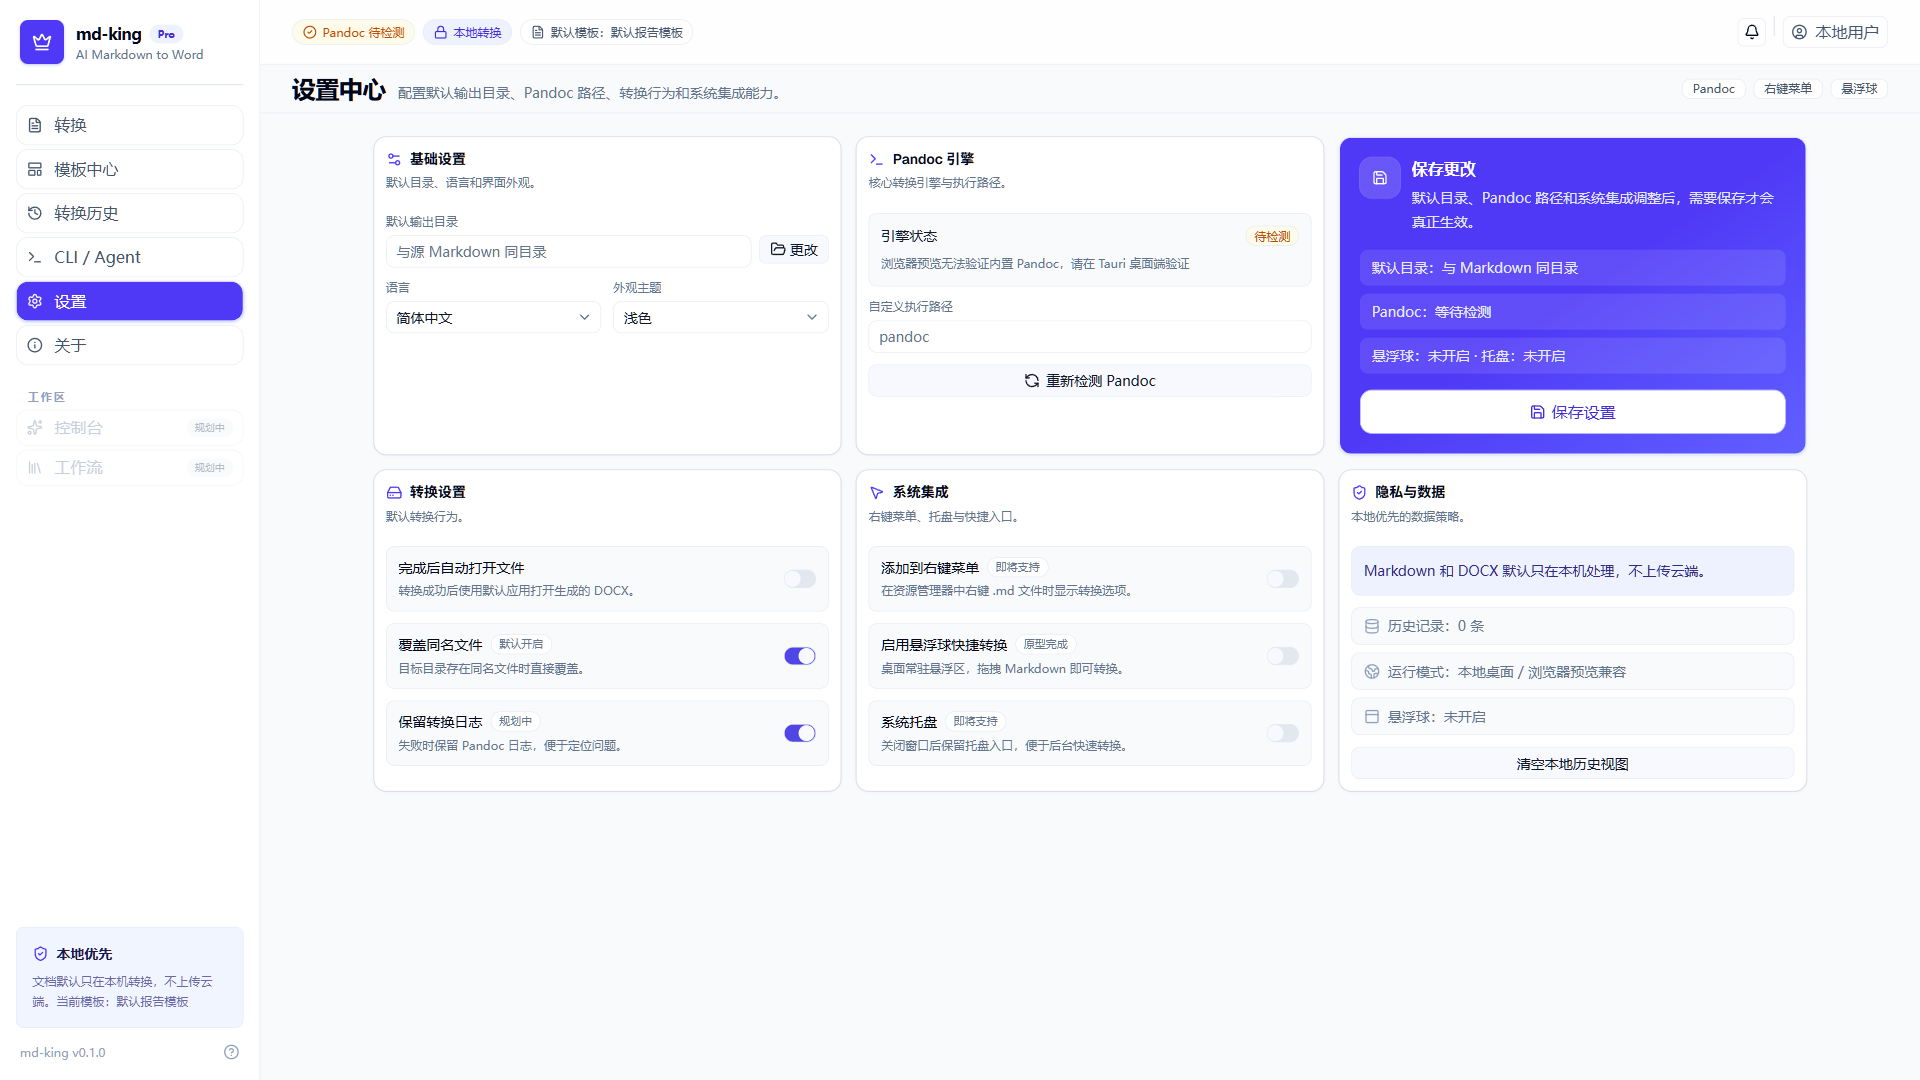
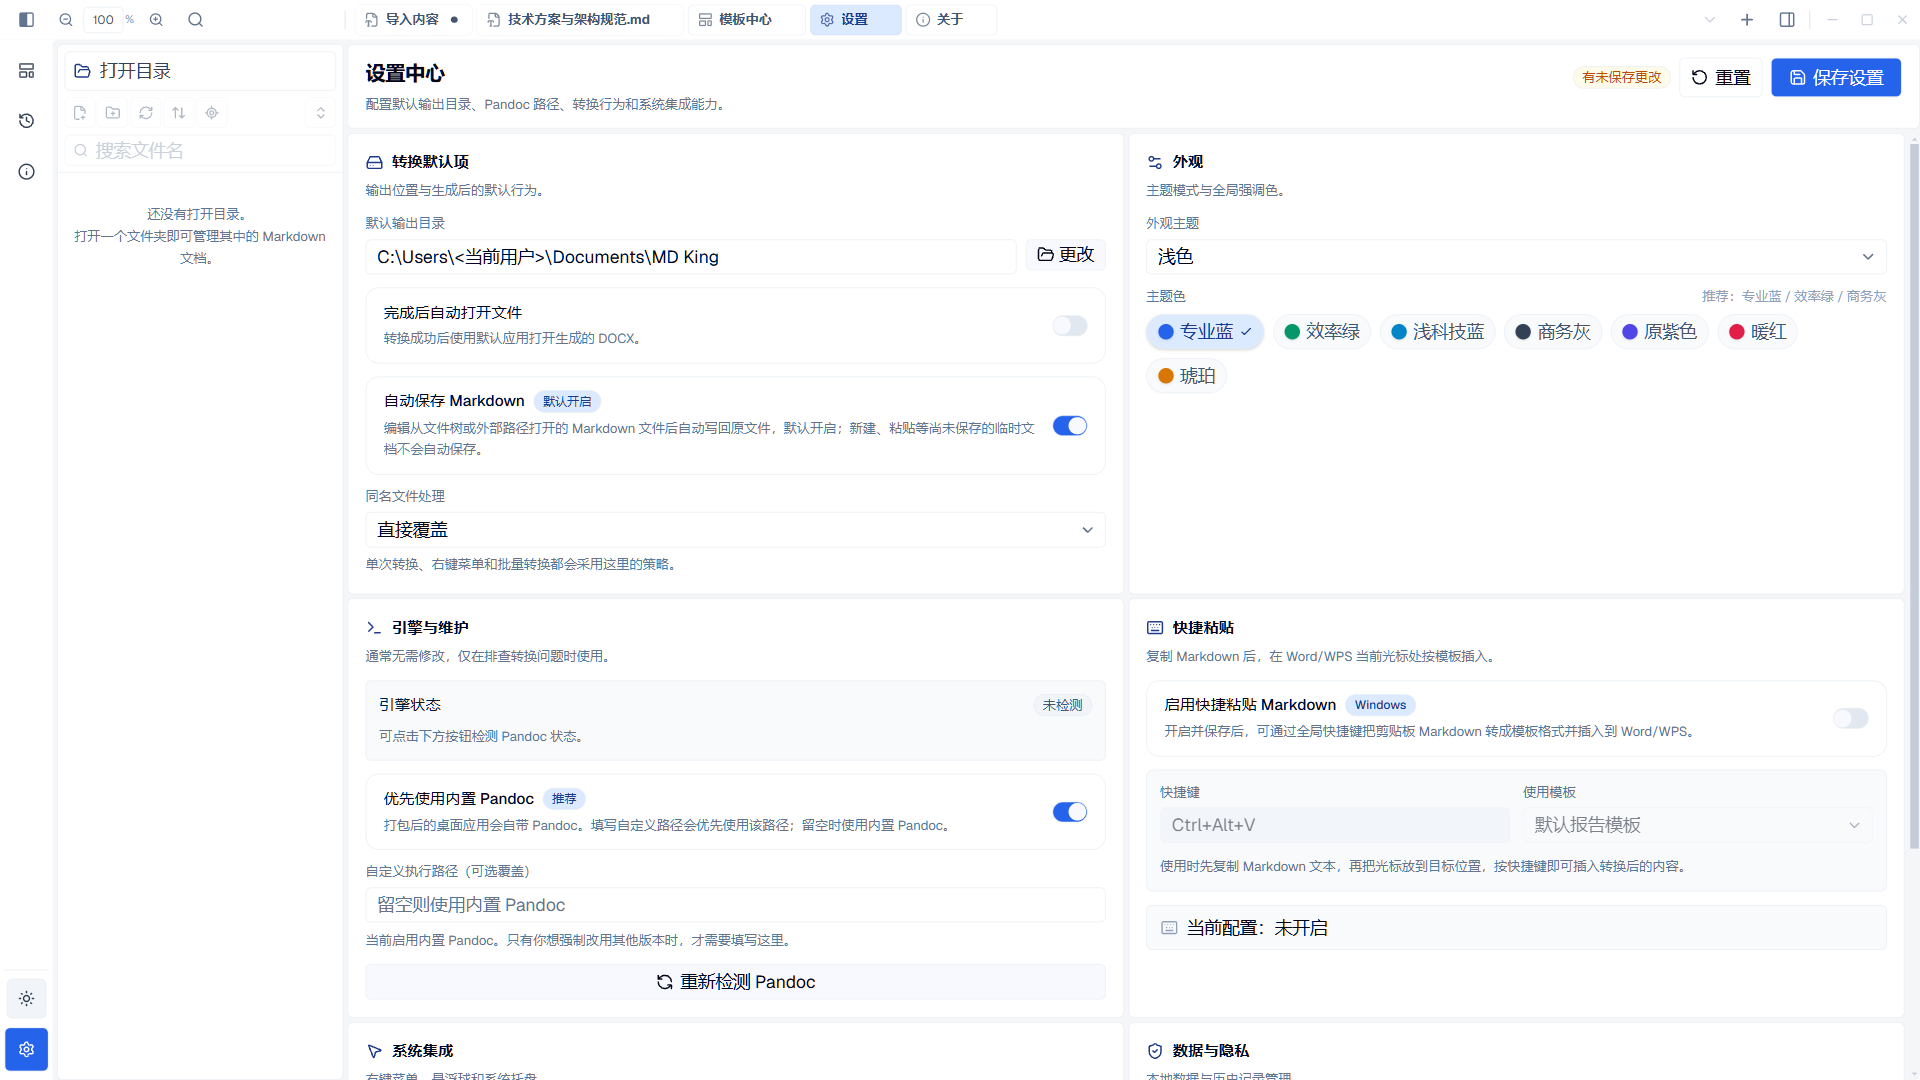
fix(math): 增强 KaTeX 物理单位公式智能容错，更新 1080P 真实软件截图

diff --git a/src/lib/markdown-math.test.ts b/src/lib/markdown-math.test.ts
@@ -1,6 +1,6 @@
 import assert from "node:assert/strict";
 import test from "node:test";
-import { findBlockMarkdownMath, findInlineMarkdownMath } from "./markdown-math.ts";
+import { findBlockMarkdownMath, findInlineMarkdownMath, normalizeMathSource } from "./markdown-math.ts";
 
 test("识别行内美元公式并忽略转义美元和行内代码", () => {
   const source = "分数为 $s(t)$，阈值为 $\\theta_{\\mathrm{warning}}$，价格 \\$10，代码 `$raw$`。";
@@ -73,5 +73,28 @@ test("识别引用块内的单行与多行块级数学公式", () => {
   const [rangeMulti] = findBlockMarkdownMath(multi);
   assert.ok(rangeMulti);
   assert.equal(multi.slice(rangeMulti.contentFrom, rangeMulti.contentTo).replace(/^>\s*/gm, "").trim(), "\\frac{a}{b}");
+});
+
+test("智能规范化 LaTeX 文本环境中的希腊字母与单位公式", () => {
+  assert.equal(
+    normalizeMathSource("\\approx 50 \\sim 100 \\text{ \\mu s}"),
+    "\\approx 50 \\sim 100 \\mu\\text{s}",
+  );
+  assert.equal(
+    normalizeMathSource("\\text{\\mu m}"),
+    "\\mu\\text{m}",
+  );
+  assert.equal(
+    normalizeMathSource("\\text{ \\mu }"),
+    "\\mu",
+  );
+  assert.equal(
+    normalizeMathSource("R = 10 \\text{ \\Omega }"),
+    "R = 10 \\Omega",
+  );
+  assert.equal(
+    normalizeMathSource("E = mc^2"),
+    "E = mc^2",
+  );
 });
 

diff --git a/src/components/editor/cm/table-inline-renderer.ts b/src/components/editor/cm/table-inline-renderer.ts
@@ -10,7 +10,7 @@ import {
   normalizeBareExternalLink,
 } from "../../../lib/document-links.ts";
 import { obsidianWikilinkPlugin } from "../../../lib/obsidian-wikilinks.ts";
-import { findInlineMarkdownMath } from "../../../lib/markdown-math.ts";
+import { findInlineMarkdownMath, normalizeMathSource } from "../../../lib/markdown-math.ts";
 import { relaxedStrongPlugin } from "../../../lib/relaxed-strong.ts";
 import { relaxedEmphasisPlugin } from "../../../lib/relaxed-emphasis.ts";
 import { markdownInlineHtmlPlugin, splitMarkdownInlineHtml, type MarkdownInlineHtmlTag } from "../../../lib/markdown-inline-html.ts";
@@ -283,7 +283,7 @@ function appendNodes(parent: HTMLElement, nodes: readonly TableInlineNode[]) {
       math.className = "mk-cm-math-inline mk-cm-table-math-inline";
       math.setAttribute("aria-label", node.value);
       try {
-        math.innerHTML = katex.renderToString(node.value, {
+        math.innerHTML = katex.renderToString(normalizeMathSource(node.value), {
           displayMode: false,
           throwOnError: true,
           output: "html",

diff --git a/src/components/templates/word-preview-page.tsx b/src/components/templates/word-preview-page.tsx
@@ -29,6 +29,7 @@ import { markdownCaptionText, mermaidFenceCaption } from "@/lib/mermaid-fence";
 import { markdownInlineHtmlPlugin, splitMarkdownInlineHtml, type MarkdownInlineHtmlTag } from "@/lib/markdown-inline-html";
 import { relaxedStrongPlugin } from "@/lib/relaxed-strong";
 import { relaxedEmphasisPlugin } from "@/lib/relaxed-emphasis";
+import { normalizeMathSource } from "@/lib/markdown-math";
 import { cn } from "@/lib/utils";
 import type { MarkdownFeatureSettings, MarkdownHeadingStyleId, MarkdownRulesSettings, StyleDraft, StyleNode, TemplateStyleConfig, TocLeaderStyle } from "@/types/style-manager";
 
@@ -480,7 +481,7 @@ function mergeTextSegments(segments: PreviewTextSegment[]) {
 
 function renderKatexMarkup(text: string, displayMode: boolean) {
   try {
-    return katex.renderToString(text, { displayMode, throwOnError: true, output: "html", strict: false });
+    return katex.renderToString(normalizeMathSource(text), { displayMode, throwOnError: true, output: "html", strict: false });
   } catch {
     return undefined;
   }

diff --git a/src/lib/markdown-math.ts b/src/lib/markdown-math.ts
@@ -217,3 +217,21 @@ export function findBlockMarkdownMath(source: string): MarkdownMathRange[] {
 
   return ranges;
 }
+
+/**
+ * 智能纠错与规范化 LaTeX 数学公式源码。
+ *
+ * 典型问题：用户在 \text{...} 文本模式下习惯性输入了 \mu、\Omega 等数学模式宏命令
+ * （例如 `\approx 50 \sim 100 \text{ \mu s}`），因为 \mu 在纯文本模式下未定义，KaTeX 会抛出
+ * `Undefined control sequence: \mu` 并标红报错。
+ *
+ * 本函数自动将非法的 `\text{ \mu s }` 转换为合法的 `\mu\text{s}` 或 `\mu`，
+ * 避免用户在书写物理单位、希腊字母时被红色报错打断。
+ */
+export function normalizeMathSource(source: string): string {
+  if (!source) return source;
+  return source.replace(
+    /\\text\{\s*\\(mu|Omega|Delta|alpha|beta|gamma|delta|sigma|pi|lambda|theta)\s*([a-zA-Z]*)\s*\}/g,
+    (_match, symbol, unit) => (unit ? `\\${symbol}\\text{${unit}}` : `\\${symbol}`),
+  );
+}

diff --git a/src/components/editor/cm/widgets.ts b/src/components/editor/cm/widgets.ts
@@ -58,6 +58,7 @@ import {
 import { TableCellCompositionGuard } from "./table-cell-edit";
 import { setTableWidthModeEffect, tableContextChangeEvent, type TableWidthMode } from "./table-display-settings";
 import { renderTableInlineMarkdown } from "./table-inline-renderer";
+import { normalizeMathSource } from "../../../lib/markdown-math";
 
 type ImageWidthMode = "fit" | "natural";
 
@@ -87,8 +88,9 @@ export class MarkdownMathWidget extends WidgetType {
   toDOM(view: EditorView): HTMLElement {
     const host = document.createElement(this.display ? "div" : "span");
     host.className = this.display ? "mk-cm-math-block" : "mk-cm-math-inline";
+    const normalized = normalizeMathSource(this.source);
     try {
-      host.innerHTML = katex.renderToString(this.source, {
+      host.innerHTML = katex.renderToString(normalized, {
         displayMode: this.display,
         throwOnError: true,
         output: "html",

diff --git a/README.md b/README.md
@@ -64,14 +64,21 @@ AI 默认输出极佳的结构化 Markdown；但一旦直接**复制粘贴到 Wo
 
 ---
 
-### 4. 深度个性化设置与深浅自适应主题
-全面支持系统原生深色/浅色模式无缝自适应切换，时序图与节点连线自适应暗化反转，保证阅读与导出极致清晰。
+### 4. 深度个性化设置与引擎维护
+全面支持系统原生深色/浅色模式无缝自适应切换，时序图与节点连线自适应暗化反转，支持自定义 Pandoc 执行路径与快捷键。
 
 ![深度设置中心](docs/images/feature-settings.png)
 
 ---
 
-### 5. 桌面极速悬浮球与系统快捷入口
+### 5. 关于面板与一键检查更新
+集成版本状态自检、快捷语法速览与应用内自动静默升级，让工具始终保持最新能力。
+
+![关于与版本中心](docs/images/feature-about.png)
+
+---
+
+### 6. 桌面极速悬浮球与系统快捷入口
 随时常驻桌面边缘的快捷悬浮小球，支持剪贴板即时监听、快速粘贴转换与文件拖拽即时导出。
 
 ![桌面悬浮入口](docs/images/feature-quick-entry.png)
